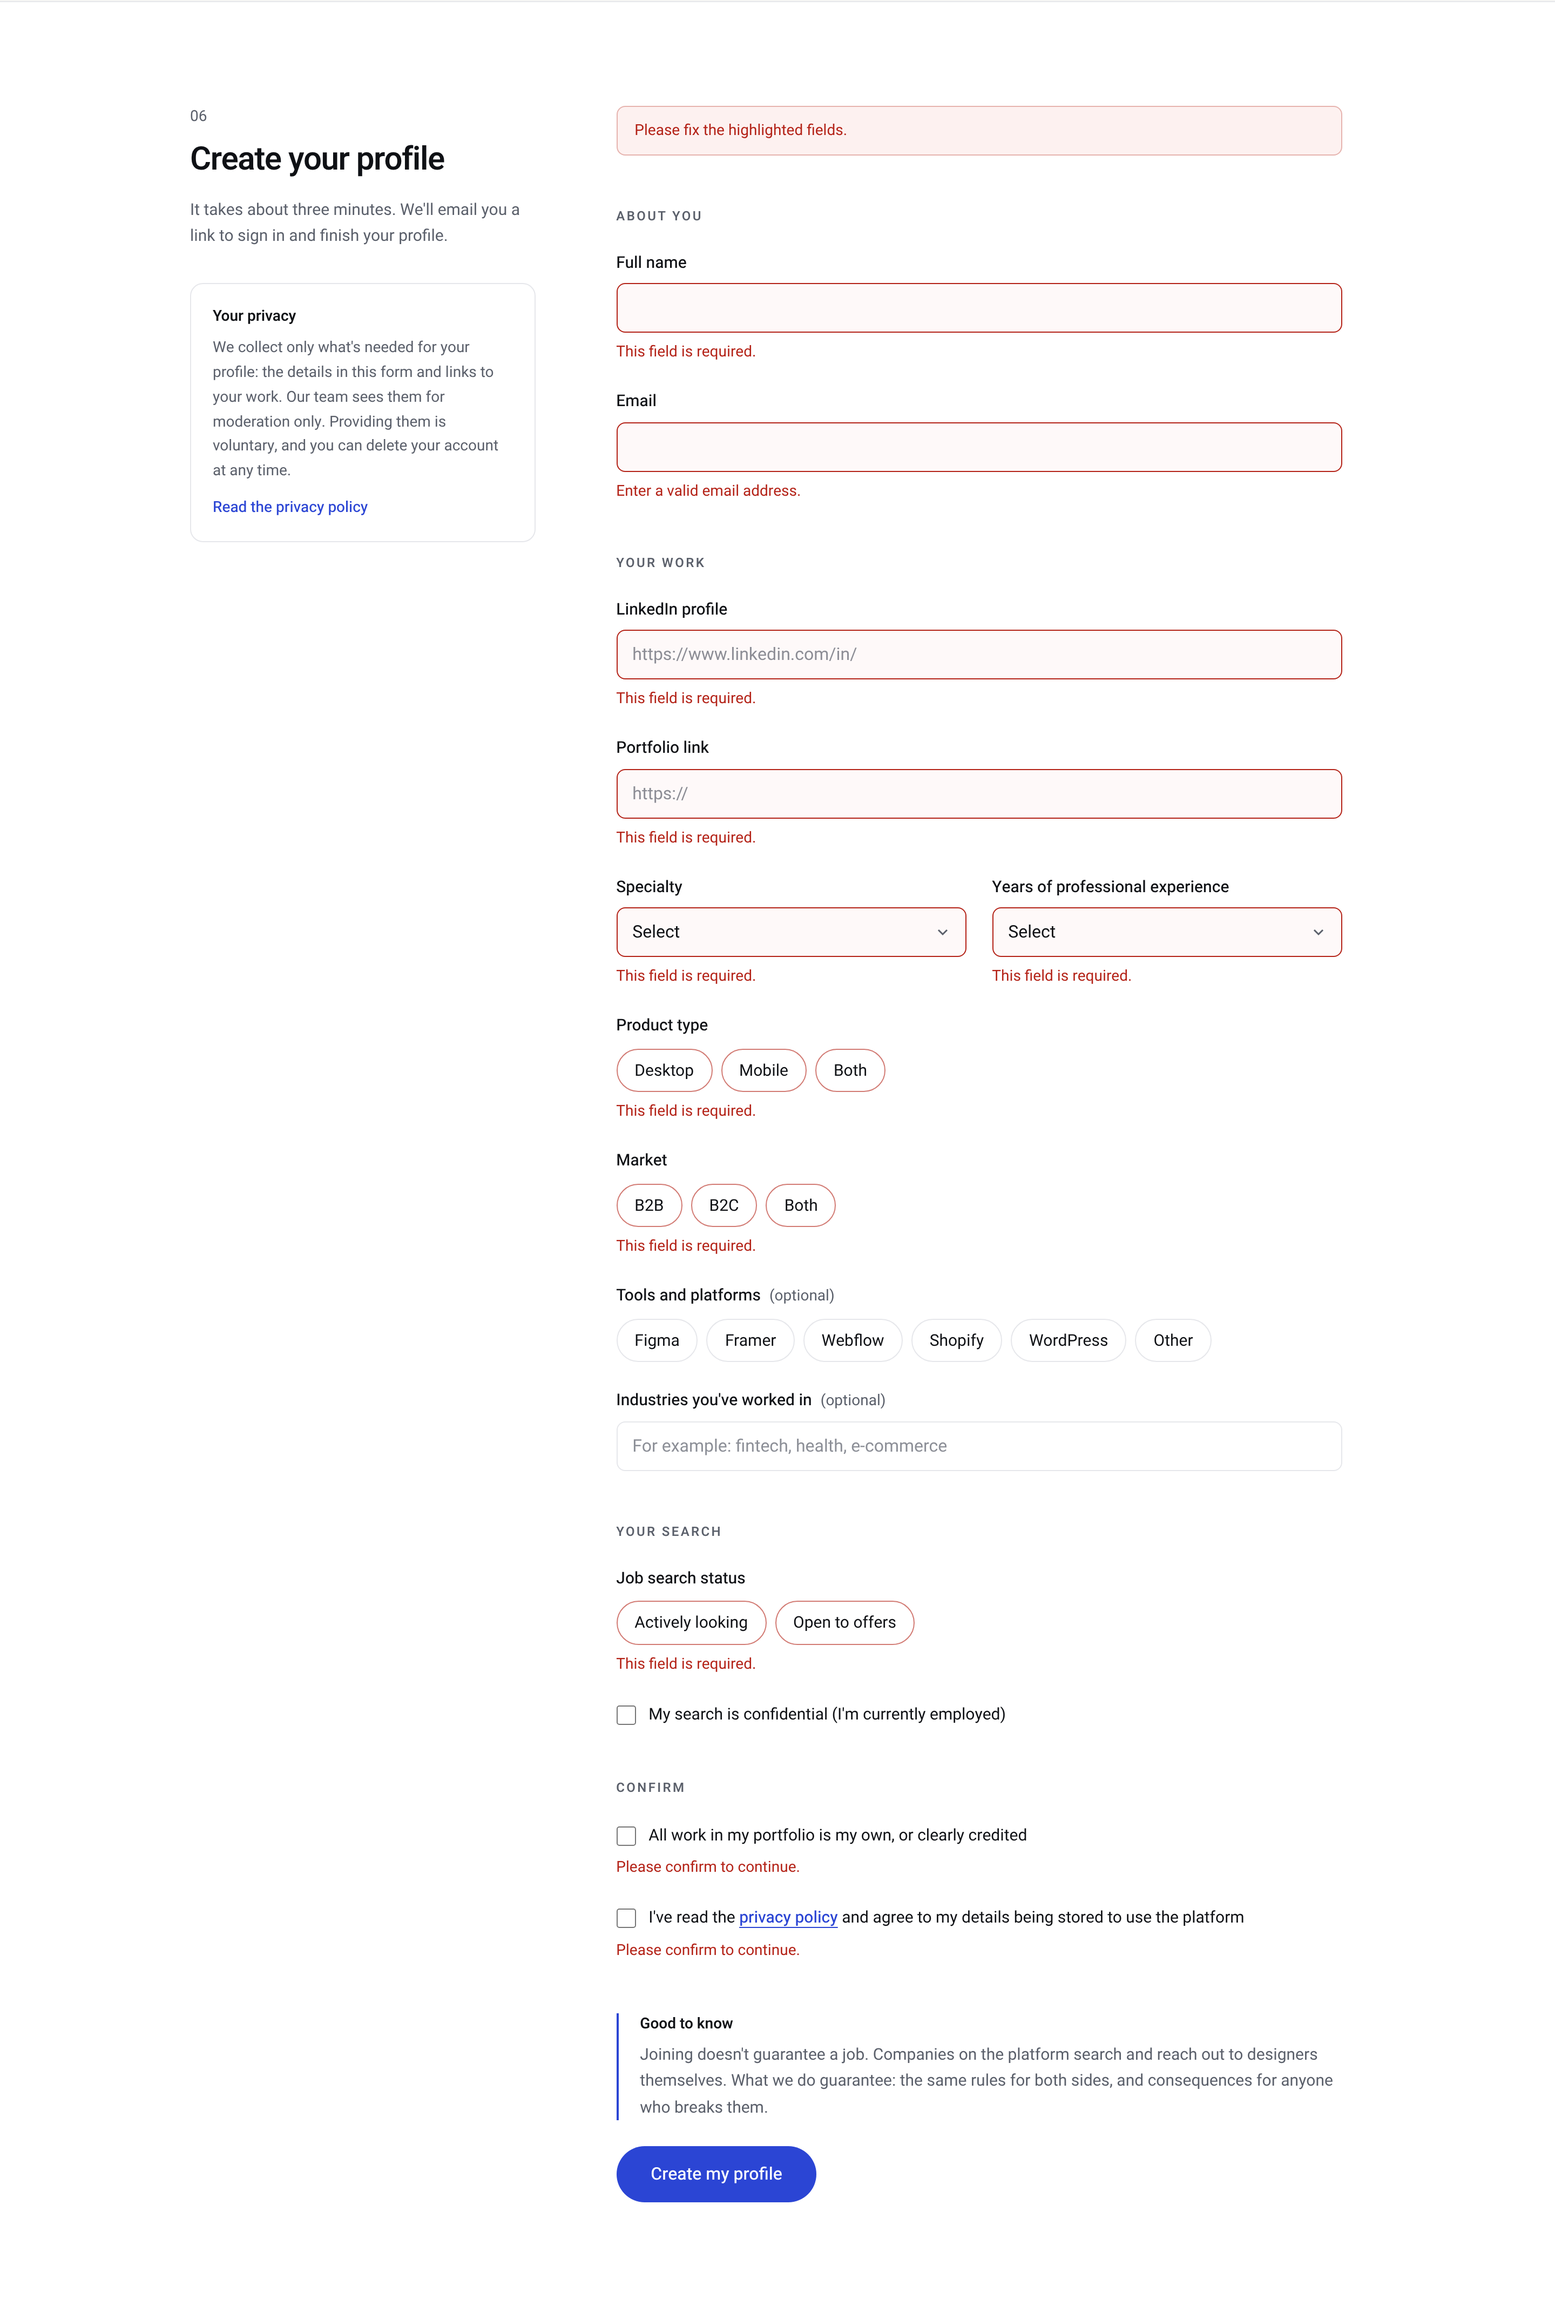
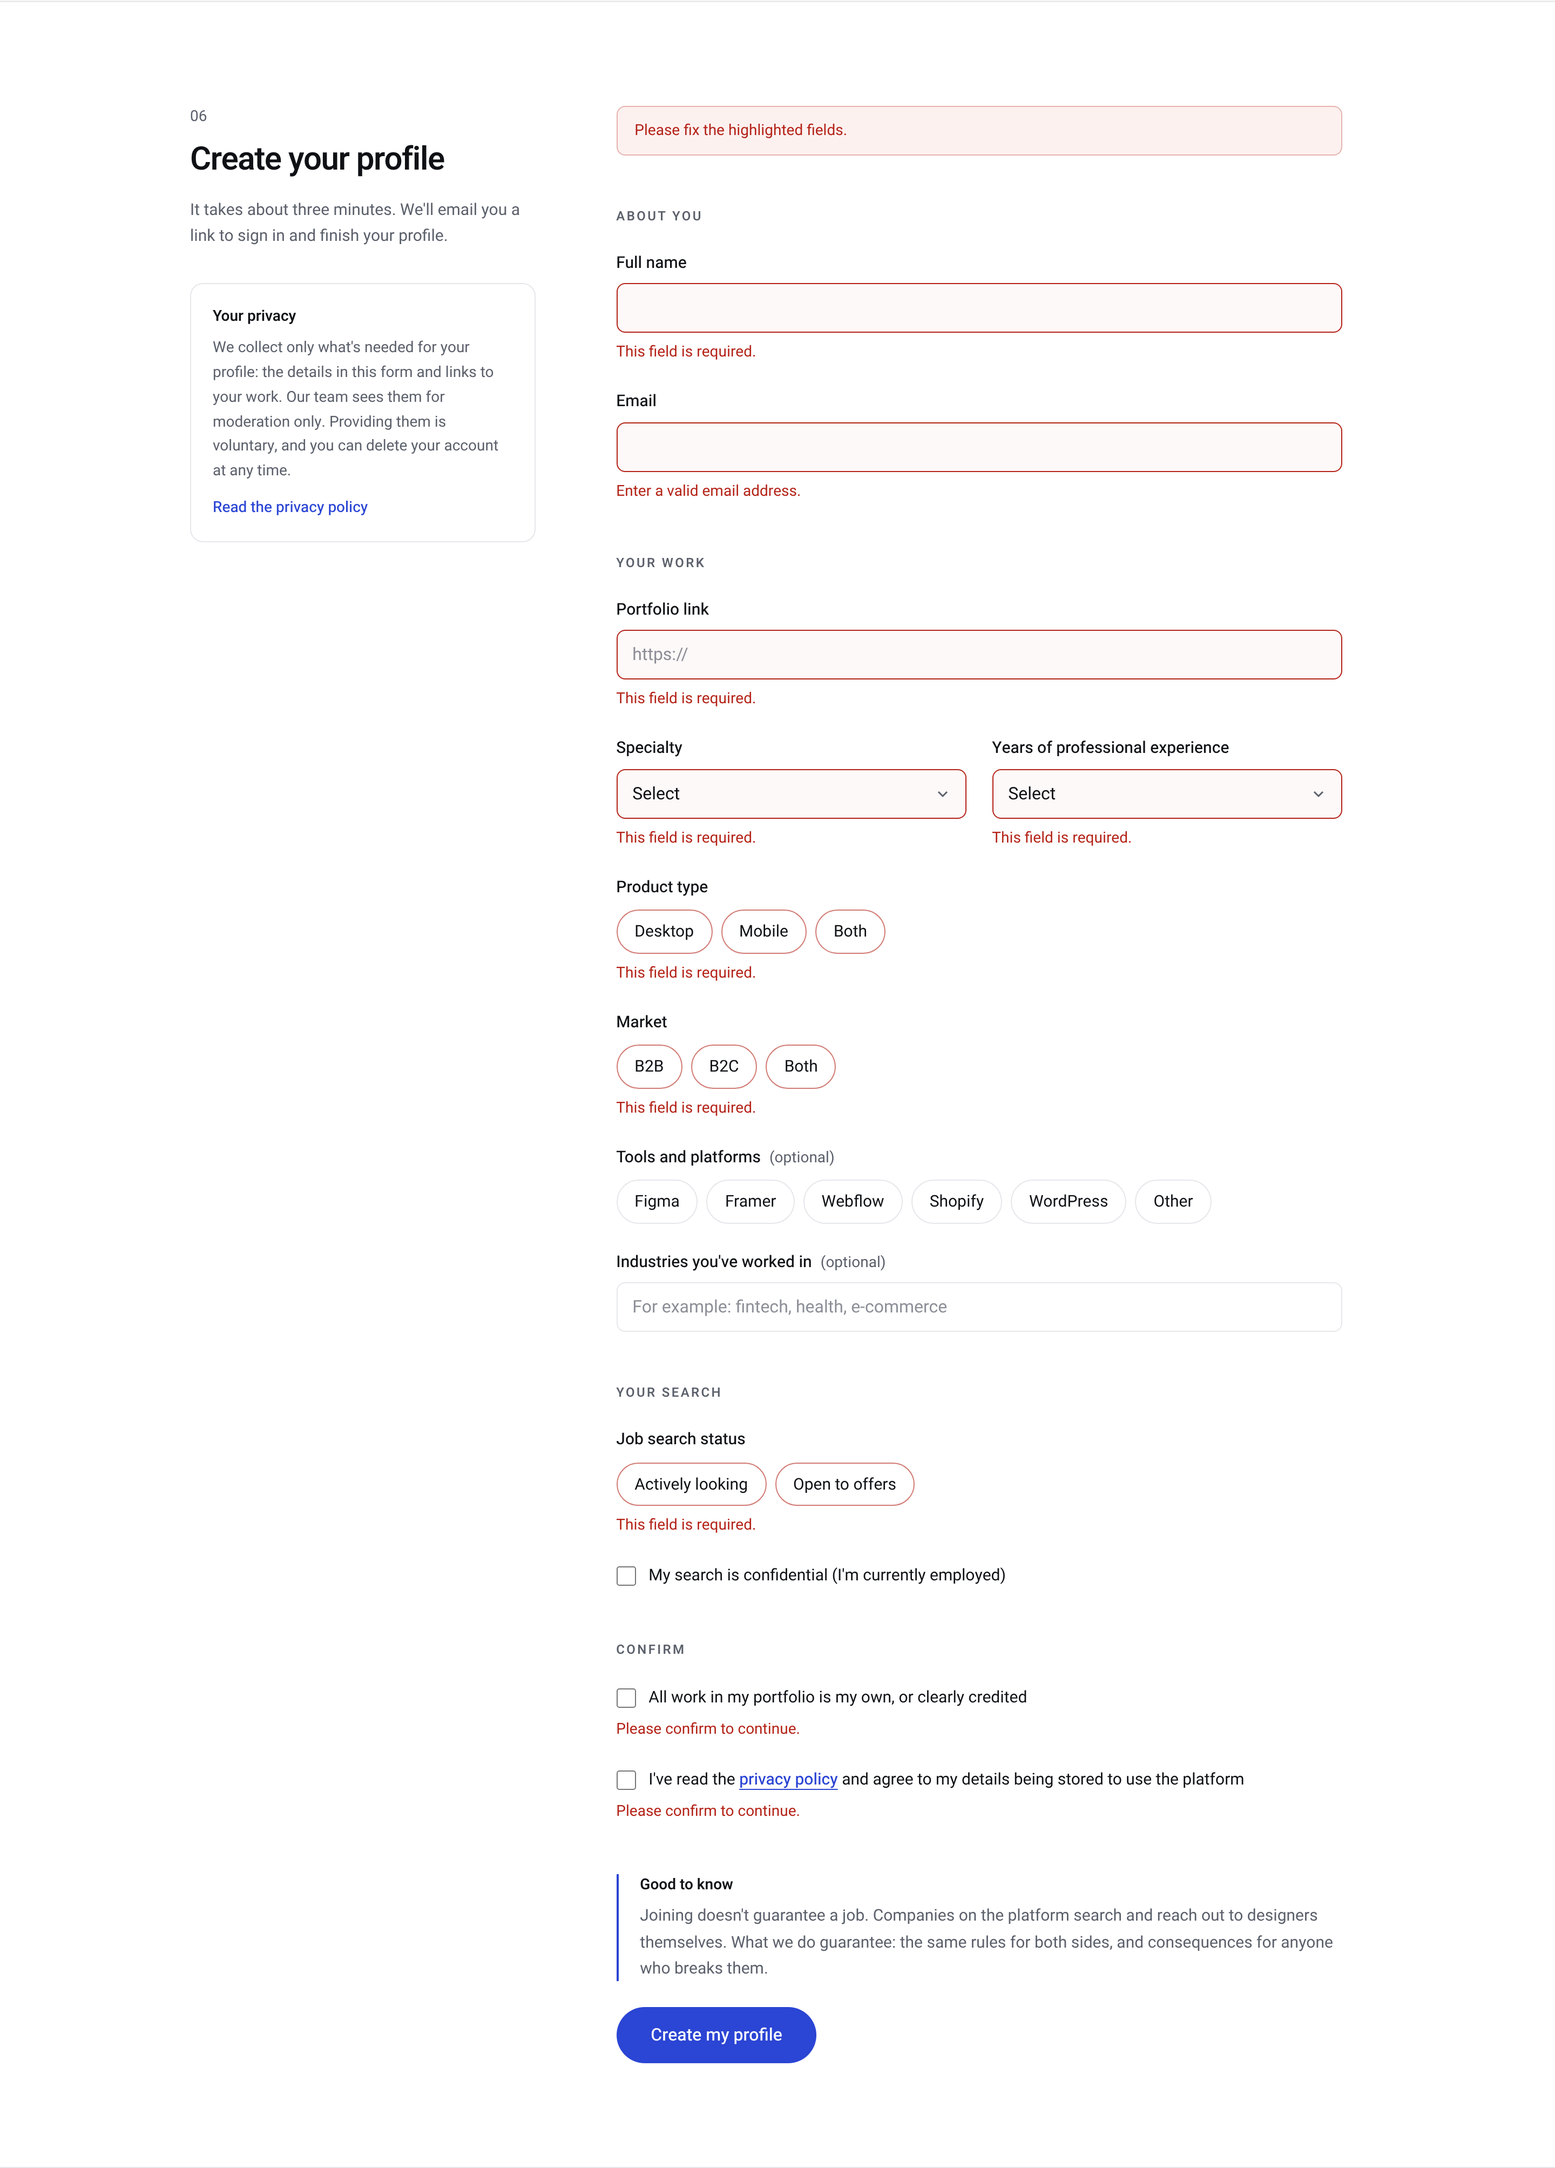
Don't ask for LinkedIn at signup; it's optional and not needed to be visible
Claude-Session: https://claude.ai/code/session_0196WSr9f1eC6p38q1msxF84

diff --git a/src/lib/validation/signup.ts b/src/lib/validation/signup.ts
@@ -26,7 +26,8 @@ const httpUrl = z
     }
   }, "invalidUrl");
 
-const linkedinUrl = httpUrl.refine((value) => {
+// Used by the profile editor (LinkedIn is optional and not asked at signup).
+export const linkedinUrl = httpUrl.refine((value) => {
   try {
     const host = new URL(value).hostname.toLowerCase();
     return host === "linkedin.com" || host.endsWith(".linkedin.com");
@@ -40,7 +41,6 @@ const mustBeChecked = z.literal(true, { error: "mustAccept" });
 export const signupSchema = z.object({
   full_name: z.string().trim().min(2, "required").max(120, "tooLong"),
   email: z.string().trim().toLowerCase().max(254, "tooLong").pipe(z.email("invalidEmail")),
-  linkedin_url: linkedinUrl,
   portfolio_url: httpUrl,
   specialty: z.enum(SPECIALTIES, { error: "required" }),
   years_experience: z.enum(YEARS_EXPERIENCE, { error: "required" }),

diff --git a/src/components/signup-form.tsx b/src/components/signup-form.tsx
@@ -26,7 +26,6 @@ function readForm(form: HTMLFormElement) {
   return {
     full_name: text("full_name"),
     email: text("email"),
-    linkedin_url: text("linkedin_url"),
     portfolio_url: text("portfolio_url"),
     specialty: text("specialty"),
     years_experience: text("years_experience"),
@@ -100,14 +99,6 @@ export function SignupForm() {
       </Group>
 
       <Group title={t("groups.work")}>
-        <TextField
-          name="linkedin_url"
-          type="url"
-          label={t("fields.linkedin_url")}
-          placeholder="https://www.linkedin.com/in/"
-          dir="ltr"
-          error={errorFor("linkedin_url")}
-        />
         <TextField
           name="portfolio_url"
           type="url"

diff --git a/designer-network-spec.md b/designer-network-spec.md
@@ -17,7 +17,7 @@ This spec covers **phase 1 only: the designer side + my admin (moderation) area*
 A designer's profile becomes **visible to employers** (phase 2) only when all of these are true. Each is objective; none is a judgment of quality.
 - Email confirmed (they logged in through the magic link at least once)
 - Designer rules accepted
-- LinkedIn link and portfolio link present and in a valid format
+- Portfolio link present and in a valid format
 - At least one case study with a title and description
 - Account status is `active` (not hidden or removed by moderation)
 
@@ -46,7 +46,7 @@ Until then, the editor shows a checklist of what's missing. No human review is n
 
 ## Privacy principles (apply everywhere)
 - Collect the minimum. No ID numbers, addresses, dates of birth, or resume file uploads.
-- Portfolio and LinkedIn are stored as links, not files.
+- Portfolio and LinkedIn (optional) are stored as links, not files.
 - Designers manage their own profile content and can delete their account at any time; deletion removes all their data (including stored images).
 - Phone is not collected at signup. Designers can add it in their profile if they want to; it is never shown publicly, and shown to employers only if they turn on "phone shown".
 - A clear privacy notice at signup (what's collected, why, who can see it, that it's voluntary, and how to request deletion).
@@ -93,7 +93,7 @@ Email field only. Always responds "Check your email" (whether or not the account
   - Specialty, years of experience, product type, market, platforms, industries (prefilled from signup, editable)
   - Availability: actively looking / open to offers / not looking
   - Confidential search toggle (hide name and photo from employers in phase 2)
-  - Portfolio link, LinkedIn link
+  - Portfolio link; LinkedIn link (optional, not asked at signup)
   - Phone (optional)
   - Salary expectation (optional): monthly gross, in ILS. Never public; shown only to registered companies in phase 2. Can be left empty.
   - Profile photo (optional, Supabase Storage)
@@ -122,7 +122,6 @@ Email field only. Always responds "Check your email" (whether or not the account
 |---|---|---|---|
 | full_name | Full name | text | yes |
 | email | Email | email | yes |
-| linkedin_url | LinkedIn profile | url | yes |
 | portfolio_url | Portfolio link | url | yes |
 | specialty | Specialty | select: Product design / UX/UI / Web design / Brand / Other | yes |
 | years_experience | Years of professional experience | select: 0-2 / 3-5 / 6-9 / 10+ | yes |
@@ -150,7 +149,7 @@ On submit (server action):
 - created_at, updated_at (trigger)
 - email_confirmed_at timestamptz null (set on first successful magic-link login)
 - full_name, email (unique, lowercase), phone (null)
-- linkedin_url, portfolio_url
+- portfolio_url, linkedin_url (null; optional, added from the profile)
 - display_name (null), headline (null), bio (null), photo_path (null)
 - specialty, years_experience, product_type, market
 - platforms text[] default '{}', industries text null
@@ -259,7 +258,7 @@ Product name not decided: placeholder `[Product name]` in one constant.
 - Note under the companies column: Companies join after the designer community is in place.
 
 **How it works**
-1. Create your profile with your portfolio and LinkedIn
+1. Create your profile with a link to your portfolio
 2. Add at least one case study, and your profile is ready to be found
 3. When companies join, they search and reach out. You decide who to talk to.
 
@@ -278,7 +277,7 @@ We're starting small: first we're building the designer community, and companies
 Joining doesn't guarantee a job. Companies on the platform search and reach out to designers themselves. What we do guarantee: the same rules for both sides, and consequences for anyone who breaks them.
 
 **Privacy page**
-- What we store: the details you entered when signing up, links to your portfolio and LinkedIn, and the content you add to your profile.
+- What we store: the details you entered when signing up, a link to your portfolio (and LinkedIn, if you add it), and the content you add to your profile.
 - Why: to show your profile to companies on the platform, and to keep the platform safe (for example, removing fake profiles).
 - Who sees it: our team, for moderation only. Once companies join, registered companies see your profile according to the privacy settings you choose. Phone and email are shown only if you choose to. Your reliability record (response and attendance) is visible to registered companies.
 - Providing your details is voluntary.
